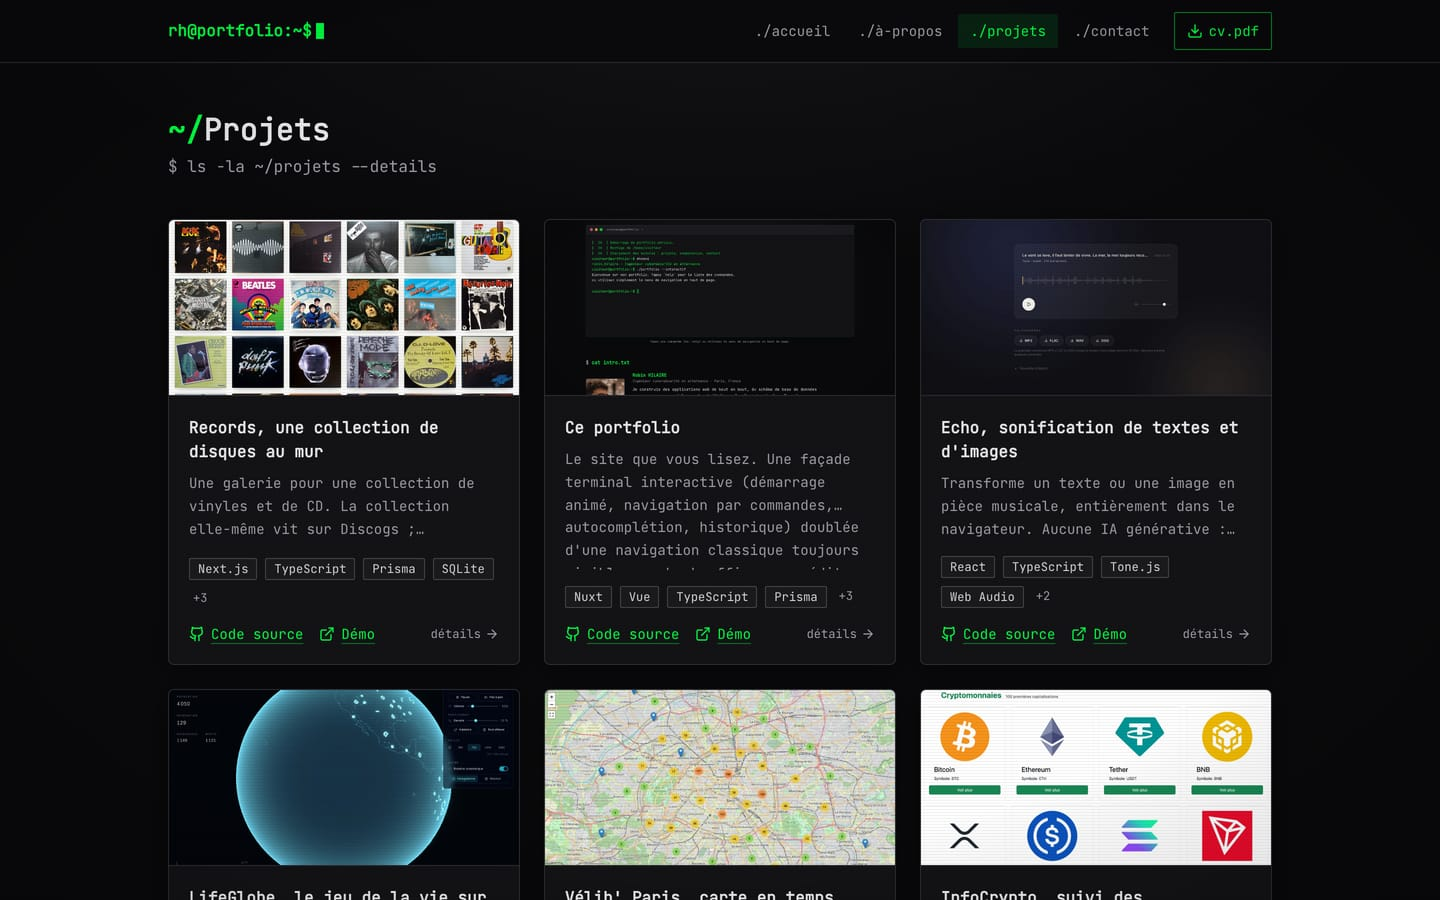
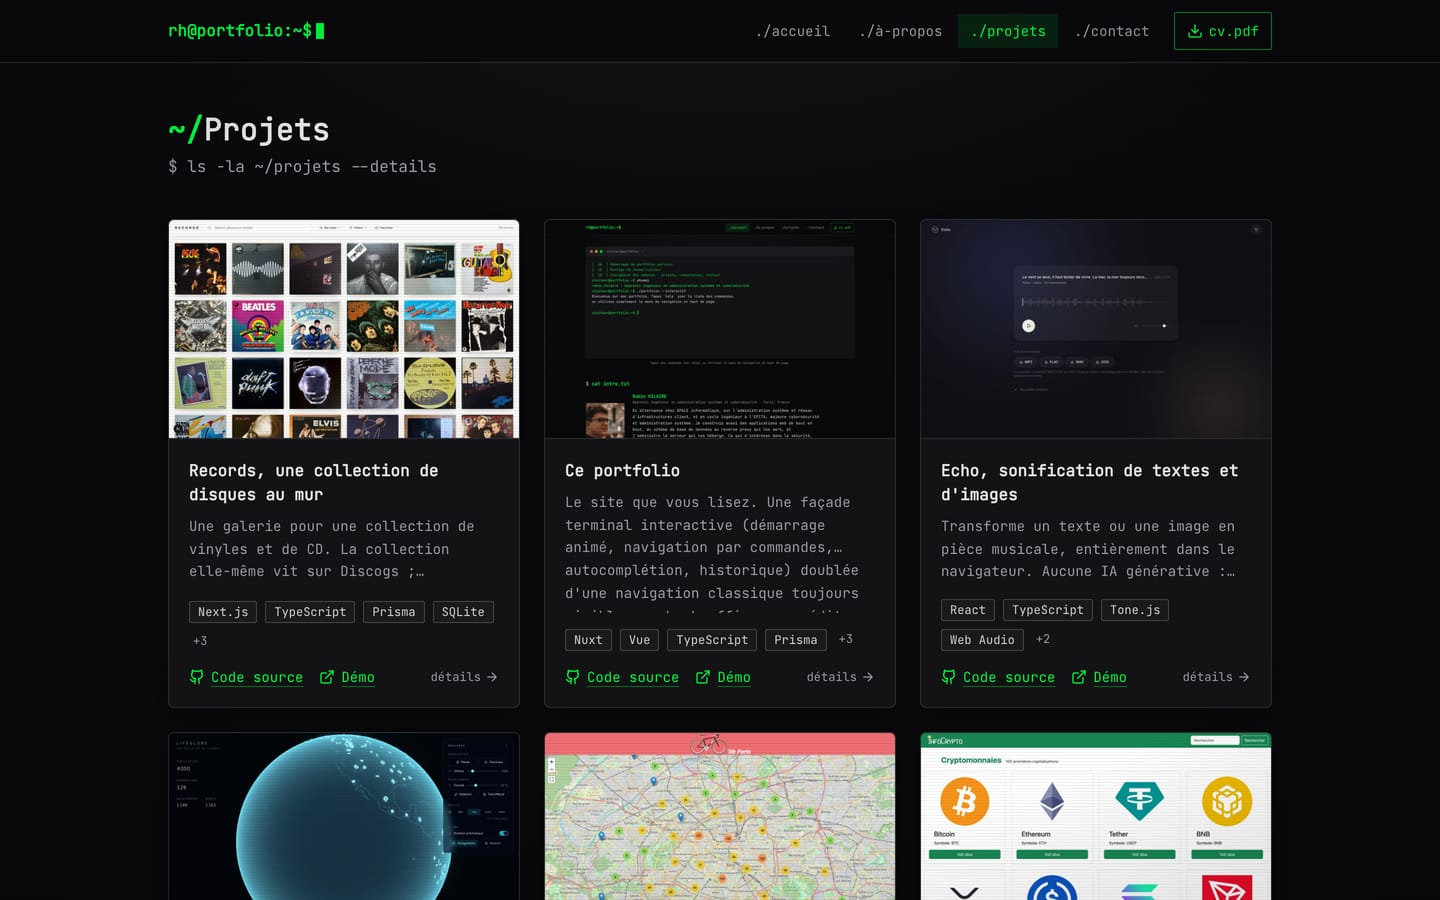
Trim the profile copy and move the certifications to their own section

diff --git a/server/plugins/seed.ts b/server/plugins/seed.ts
@@ -64,11 +64,11 @@ async function seedContent() {
       fullName: 'Robin HILAIRE',
       title: 'Apprenti ingénieur en administration système et cybersécurité',
       intro:
-        "En alternance chez OPALE informatique, sur l'administration système et réseau d'une infrastructure "
-        + "d'imagerie médicale, et en cycle ingénieur à l'EPITA, majeure cybersécurité et administration système. "
-        + "Je construis aussi des applications web de bout en bout, du schéma de base de données au reverse proxy "
-        + "qui les sert, et j'héberge la plupart moi-même. Ce qui m'intéresse dans la sécurité, c'est le concret : "
-        + "durcir ce qu'on vient d'écrire, comprendre par où ça casse, garder un déploiement reproductible.",
+        "En alternance chez OPALE informatique, sur l'administration système et réseau d'infrastructures client, "
+        + "et en cycle ingénieur à l'EPITA, majeure cybersécurité et administration système. Je construis aussi "
+        + 'des applications web de bout en bout, du schéma de base de données au reverse proxy qui les sert, et '
+        + "j'administre le serveur qui les héberge. Ce qui m'intéresse dans la sécurité, c'est le concret : "
+        + "comprendre par où ça casse, et garder un déploiement reproductible.",
       email: 'hilairerob84@gmail.com',
       linkedin: 'https://www.linkedin.com/in/hilaire-robin',
       github: 'https://github.com/RobinHil',
@@ -84,7 +84,7 @@ async function seedContent() {
         company: 'OPALE informatique, Paris',
         period: 'Septembre 2025 - aujourd\'hui',
         description:
-          "Alternance sur l'infrastructure d'imagerie médicale de l'entreprise : administration des systèmes "
+          "Alternance sur les infrastructures gérées par l'entreprise : administration des systèmes "
           + 'et du réseau, et travaux autour de la norme DICOM.',
         order: 0,
       },
@@ -107,7 +107,7 @@ async function seedContent() {
         description:
           "Mise en place et maintenance, matérielle et logicielle, d'un serveur d'imagerie médicale (PACS, norme "
           + 'DICOM). Conteneurisation Docker des services associés (SSO, journalisation), sécurisation de '
-          + "l'infrastructure par un SSO OpenID Connect, et R&D sur l'architecture déployée pour y intégrer de "
+          + "l'infrastructure par un SSO, et R&D sur l'architecture déployée pour y intégrer de "
           + 'nouvelles solutions.',
         order: 2,
       },
@@ -151,54 +151,47 @@ async function seedContent() {
         description: 'Spécialités mathématiques et informatique, option européenne anglais.',
         order: 2,
       },
-      // Certifications. Le profil LinkedIn en annonce 8 : voici les quatre
-      // Fortinet, les autres restent à ajouter depuis /admin.
-      {
-        title: 'Fortinet NSE 4 Certified in FortiOS',
-        institution: 'Fortinet',
-        period: 'Juillet 2026 - Juillet 2028',
-        description: 'Certification pare-feu FortiGate : politiques de filtrage, VPN, inspection du trafic.',
-        order: 3,
-      },
-      {
-        title: 'Fortinet NSE 3 Certified in Cybersecurity',
-        institution: 'Fortinet',
-        period: 'Février 2026 - Février 2028',
-        description: null,
-        order: 4,
-      },
-      {
-        title: 'Fortinet NSE 2 Certified in Cybersecurity',
-        institution: 'Fortinet',
-        period: 'Février 2026 - Février 2028',
-        description: null,
-        order: 5,
-      },
-      {
-        title: 'Fortinet NSE 1 Certified in Cybersecurity',
-        institution: 'Fortinet',
-        period: 'Février 2026 - Février 2028',
-        description: null,
-        order: 6,
-      },
     ],
   })
 
   await prisma.certification.createMany({
     data: [
       {
-        title: 'Certification placeholder - analyse de risques',
-        issuer: 'Organisme émetteur',
-        period: 'Mars 2024',
-        description: 'Remplacez ces entrées depuis /admin/certifications.',
+        title: 'Fortinet NSE 4 Certified in FortiOS',
+        issuer: 'Fortinet',
+        period: 'Juillet 2026 - Juillet 2028',
+        description: 'Pare-feu FortiGate : politiques de filtrage, VPN, inspection du trafic.',
         order: 0,
       },
       {
-        title: 'Certification placeholder - sécurité réseau',
-        issuer: 'Organisme émetteur',
-        period: 'Janvier 2023 - Janvier 2026',
+        title: 'Fortinet NSE 3 Certified in Cybersecurity',
+        issuer: 'Fortinet',
+        period: 'Février 2026 - Février 2028',
         description: null,
         order: 1,
+      },
+      {
+        title: 'Fortinet NSE 2 Certified in Cybersecurity',
+        issuer: 'Fortinet',
+        period: 'Février 2026 - Février 2028',
+        description: null,
+        order: 2,
+      },
+      {
+        title: 'Fortinet NSE 1 Certified in Cybersecurity',
+        issuer: 'Fortinet',
+        period: 'Février 2026 - Février 2028',
+        description: null,
+        order: 3,
+      },
+      {
+        title: 'MOOC EBIOS Risk Manager',
+        issuer: "Club EBIOS, validé par l'ANSSI",
+        period: 'Octobre 2025',
+        description:
+          "Fondamentaux de la méthode d'analyse de risques EBIOS Risk Manager, conçue par l'ANSSI. "
+          + 'Formation en ligne bâtie avec le Club EBIOS, certification validée par l\'ANSSI.',
+        order: 4,
       },
     ],
   })
@@ -218,8 +211,8 @@ async function seedContent() {
       { name: 'React, Next.js', type: 'hard', category: 'Développement', order: 1 },
       { name: 'Angular, Ionic', type: 'hard', category: 'Développement', order: 2 },
       { name: 'Node.js, Express', type: 'hard', category: 'Développement', order: 3 },
-      { name: 'Tailwind CSS, Sass', type: 'hard', category: 'Développement', order: 4 },
-      { name: 'Three.js, WebGL', type: 'hard', category: 'Développement', order: 5 },
+      { name: 'Tailwind CSS', type: 'hard', category: 'Développement', order: 4 },
+      { name: 'Three.js', type: 'hard', category: 'Développement', order: 5 },
       { name: 'Qt, PyQt', type: 'hard', category: 'Développement', order: 6 },
       { name: 'Prisma', type: 'hard', category: 'Développement', order: 7 },
       { name: 'PostgreSQL, MySQL, SQLite', type: 'hard', category: 'Développement', order: 8 },
@@ -230,15 +223,13 @@ async function seedContent() {
       { name: 'Pare-feux (Fortinet FortiOS)', type: 'hard', category: 'Systèmes et réseau', order: 2 },
       { name: 'Docker et Compose', type: 'hard', category: 'Systèmes et réseau', order: 3 },
       { name: 'nginx, Caddy', type: 'hard', category: 'Systèmes et réseau', order: 4 },
-      { name: 'Administration de VPS, auto-hébergement', type: 'hard', category: 'Systèmes et réseau', order: 5 },
+      { name: 'Administration de VPS', type: 'hard', category: 'Systèmes et réseau', order: 5 },
       { name: 'Git, intégration continue', type: 'hard', category: 'Systèmes et réseau', order: 6 },
       // Hard skills - Sécurité
-      { name: 'Durcissement applicatif (CSP, CSRF, en-têtes)', type: 'hard', category: 'Sécurité', order: 0 },
-      { name: 'Authentification, sessions, hachage', type: 'hard', category: 'Sécurité', order: 1 },
-      { name: 'SSO et OpenID Connect', type: 'hard', category: 'Sécurité', order: 2 },
-      { name: 'Reverse proxy et TLS', type: 'hard', category: 'Sécurité', order: 3 },
-      { name: 'Limitation de débit et anti-abus', type: 'hard', category: 'Sécurité', order: 4 },
-      { name: 'Veille et gestion des vulnérabilités', type: 'hard', category: 'Sécurité', order: 5 },
+      { name: 'Authentification, sessions, hachage', type: 'hard', category: 'Sécurité', order: 0 },
+      { name: 'SSO', type: 'hard', category: 'Sécurité', order: 1 },
+      { name: 'Reverse proxy et TLS', type: 'hard', category: 'Sécurité', order: 2 },
+      { name: 'Limitation de débit et anti-abus', type: 'hard', category: 'Sécurité', order: 3 },
       // Soft skills
       { name: 'Autonomie', type: 'soft', order: 0 },
       { name: 'Curiosité', type: 'soft', order: 1 },
